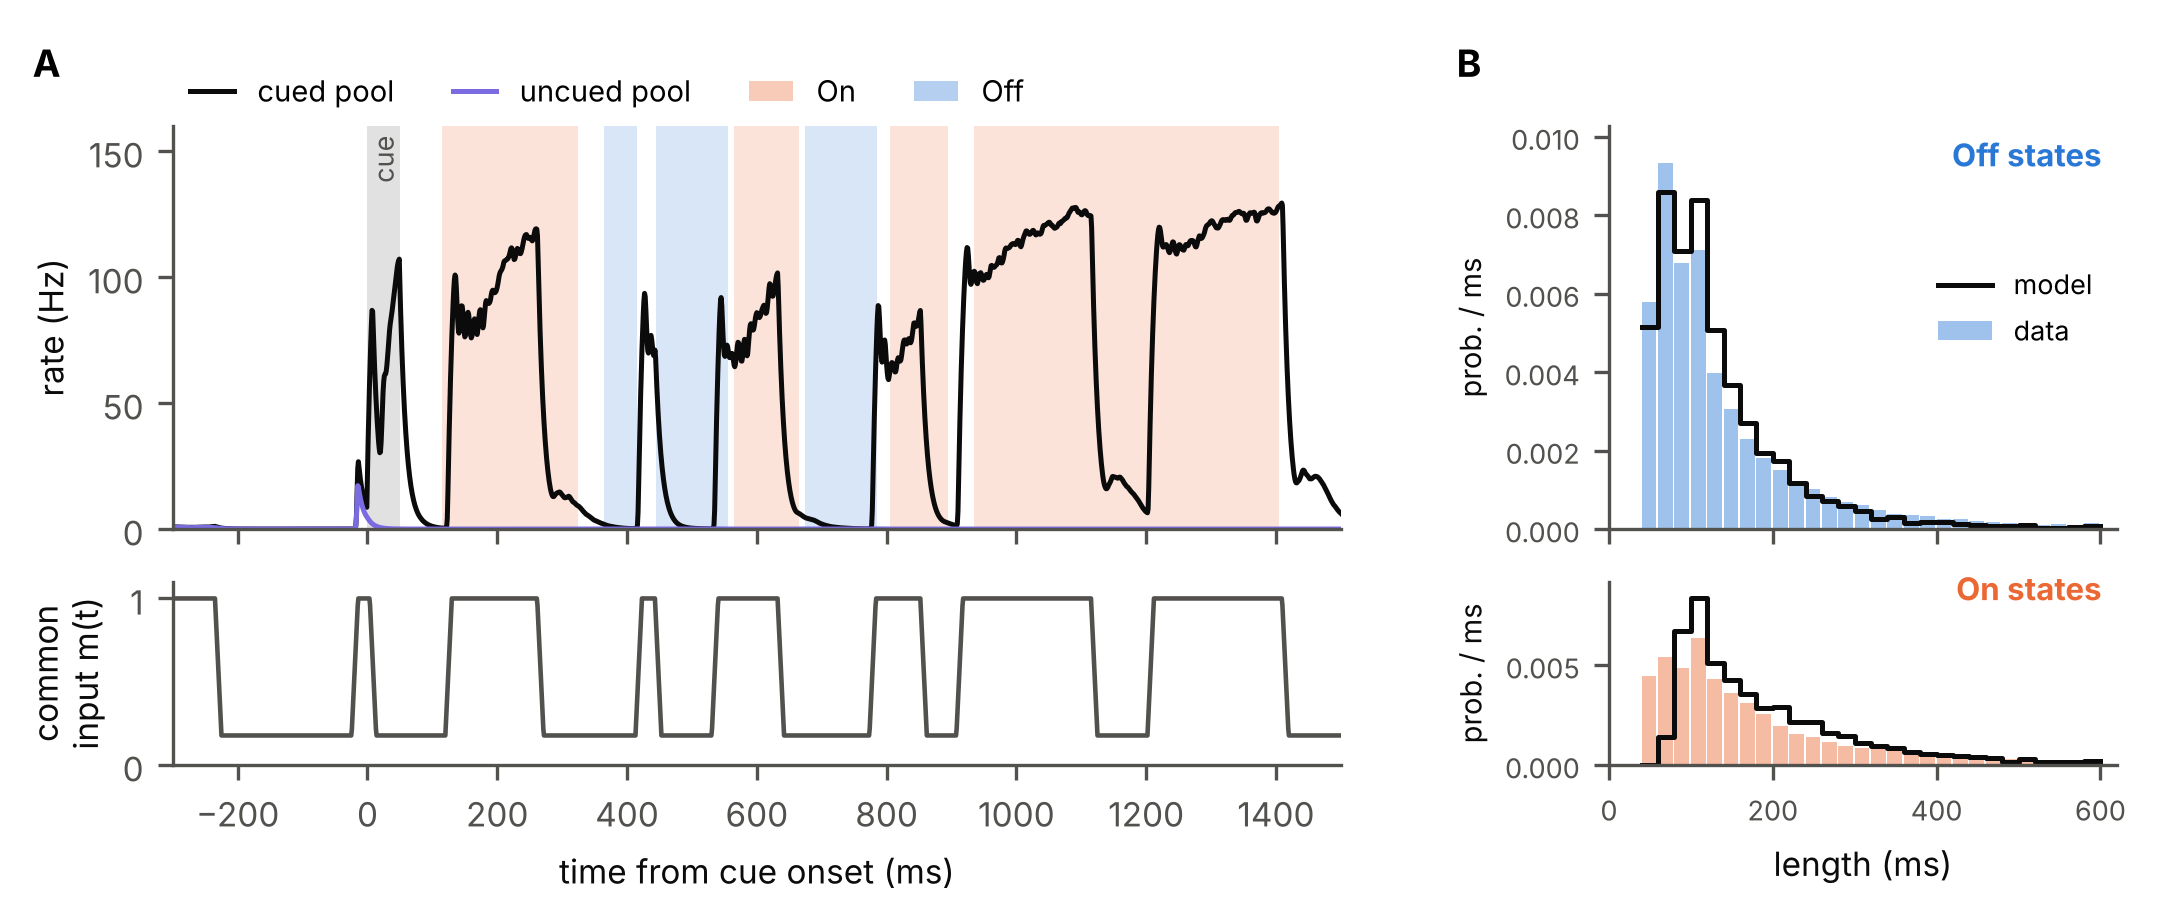
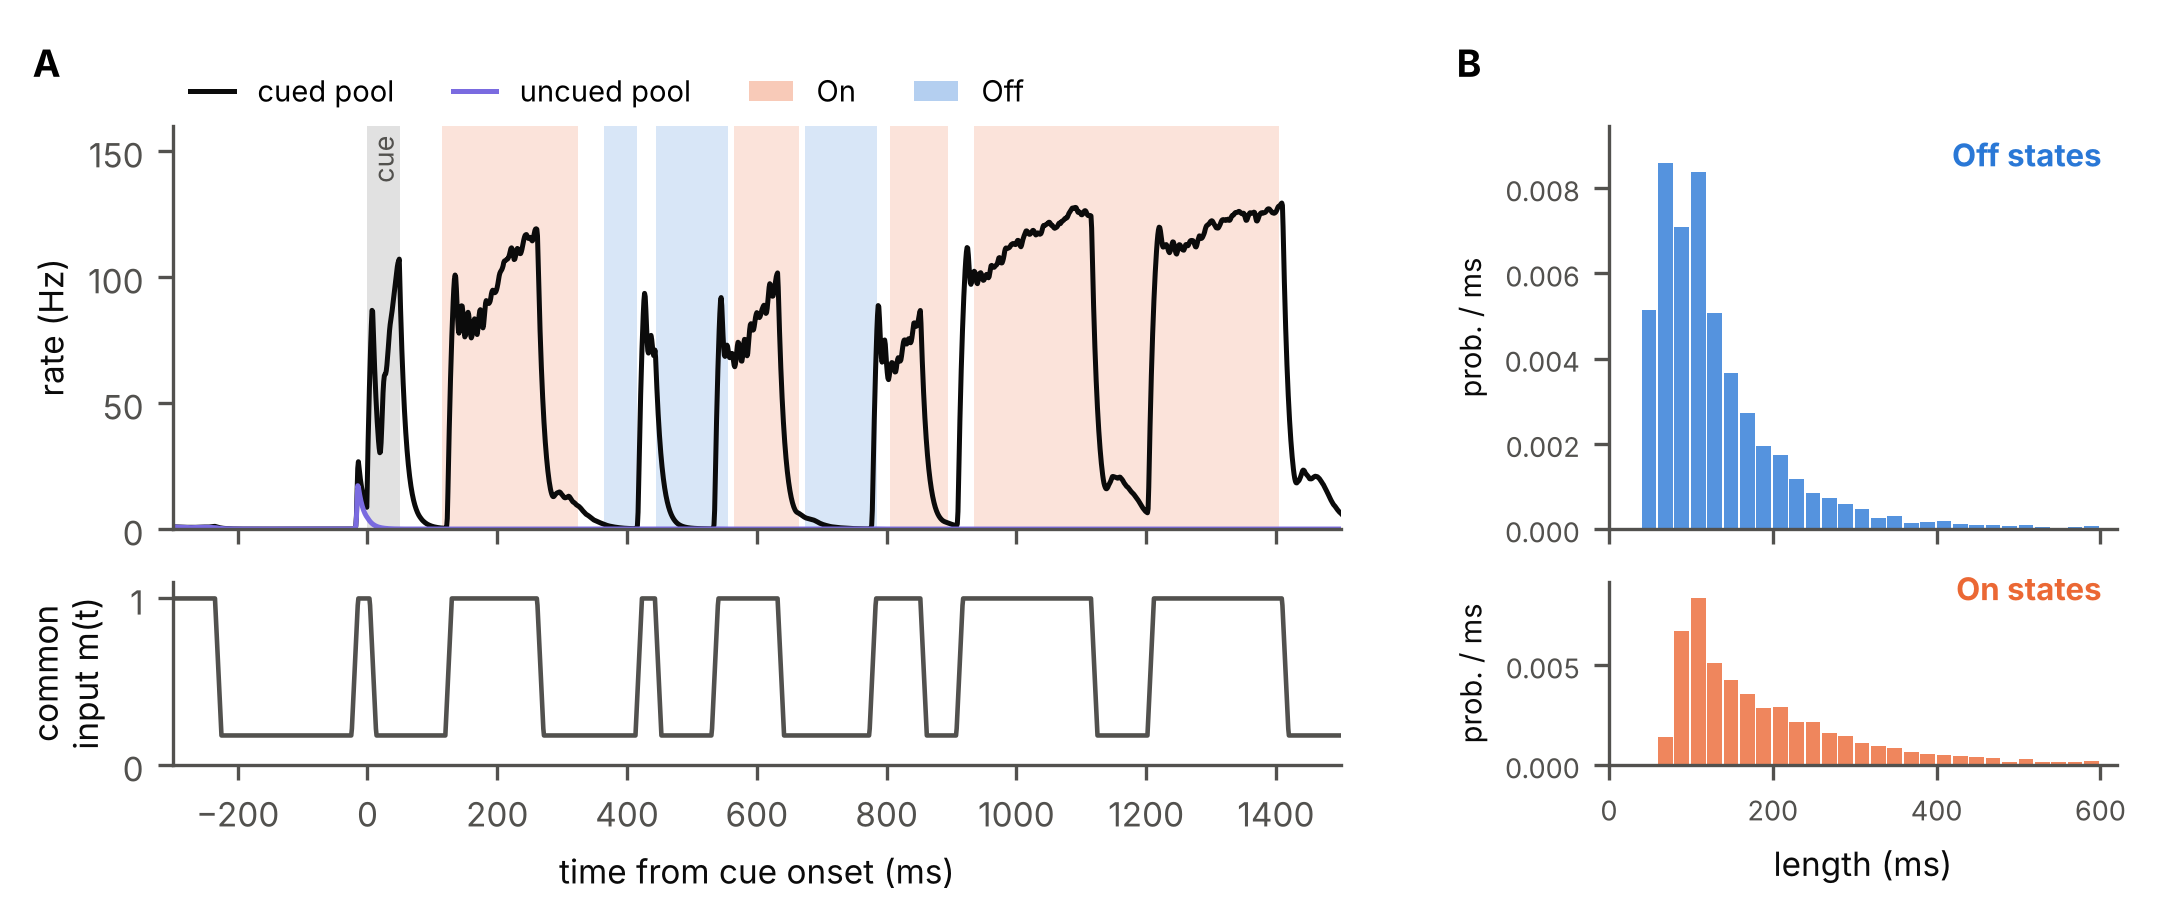
Figure 1: model-only histograms as bars; Figure 2: 2x3 On/Off statistics
Claude-Session: https://claude.ai/code/session_01DWA8oLxpZgubPZ4A6kb3Lh

diff --git a/paper_model/make_figures.py b/paper_model/make_figures.py
@@ -1,7 +1,7 @@
 """Paper figures of the best-fit model.
 
 Figure 1: a representative single trial (pool rates with the top-20 On/Off labels, and the common input below)
-          and the top-20 Off and On length histograms, model vs data.
+          and the model's top-20 Off and On length histograms.
 Figure 2: On/Off statistics of every unit set, model vs data.
 
 usage: python -m paper_model.make_figures [--n-trials 2112] [--seed 1] [--out figures/paper_model]
@@ -72,18 +72,18 @@ def figure1(out, summ, hist, path):
     b.set_xlabel('time from cue onset (ms)')
     for j, (s, c, name) in enumerate((('off', C_OFF, 'Off'), ('on', C_ON, 'On'))):
         h = fig.add_subplot(gs[j, 1]) if j == 0 else fig.add_subplot(gs[1, 1])
-        hd = hist[('top', '20')][s][:-1] / 20
-        hm = r['h_' + s][:-1] / 20
-        h.bar(R.EDGES[:-1], hd, width=18, align='edge', color=c, alpha=0.45, lw=0, label='data')
-        h.step(R.EDGES, np.r_[hm, hm[-1]], where='post', color=INK, lw=1.2, label='model')
-        h.set_xlim(0, 620); h.set_ylim(0, max(hd.max(), hm.max()) * 1.1)
+        lab = 1 if s == 'on' else -1
+        dur = np.array([(b - a) * R.STEP for row in r['state'] for a, b in R.runs(row == lab)], float)
+        edges = np.arange(0, 620, 20)
+        hm = np.histogram(dur, edges)[0] / len(dur) / 20
+        h.bar(edges[:-1], hm, width=18, align='edge', color=c, alpha=0.8, lw=0)
+        h.set_xlim(0, 620); h.set_ylim(0, hm.max() * 1.1)
         h.set_xticks([0, 200, 400, 600])
         h.text(0.97, 0.9, f'{name} states', transform=h.transAxes, ha='right', fontsize=7.5, color=c, weight='bold')
         h.tick_params(labelsize=6.5)
         h.set_ylabel('prob. / ms', fontsize=7)
         if j == 0:
             h.tick_params(labelbottom=False)
-            h.legend(loc='center right', fontsize=6.5, bbox_to_anchor=(1, 0.55))
             h.set_title('B', loc='left', x=-0.3, y=1.06)
         else:
             h.set_xlabel('length (ms)')
@@ -97,10 +97,8 @@ def figure2(out, summ, path):
     panels = (('off_per_trial', 'n_off', 'Off states per trial', C_OFF), ('off_mean_ms', 'off_mean', 'Off length, mean (ms)', C_OFF),
               ('frac_off', 'frac_off', 'fraction of delay Off', C_OFF),
               ('on_per_trial', 'n_on', 'On states per trial', C_ON), ('on_mean_ms', 'on_mean', 'On length, mean (ms)', C_ON),
-              ('frac_on', 'frac_on', 'fraction of delay On', C_ON),
-              ('mu_on', 'mu_on', 'μ_on (gain anchored to it)', INK2), (None, 'gain', 'read-out gain (z per Hz)', INK2),
-              (None, None, 'memory correct', INK2))
-    fig, axs = plt.subplots(3, 3, figsize=(6.6, 6.4), gridspec_kw=dict(hspace=0.75, wspace=0.42))
+              ('frac_on', 'frac_on', 'fraction of delay On', C_ON))
+    fig, axs = plt.subplots(2, 3, figsize=(6.6, 4.3), gridspec_kw=dict(hspace=0.75, wspace=0.42))
     for a, (dk, mk, name, col) in zip(axs.ravel(), panels):
         a.set_title(name, fontsize=8)
         if mk is None:
@@ -120,7 +118,7 @@ def figure2(out, summ, path):
         a.set_ylim(0, a.get_ylim()[1] * 1.05); a.tick_params(labelsize=6.5)
     fig.legend(handles=[Line2D([], [], ls='', marker='s', ms=4, mfc='white', mec=INK, label='data (mean ± SEM over 25 sessions)'),
                         Line2D([], [], ls='', marker='o', ms=4.5, color=INK2, label='model')],
-               loc='lower left', bbox_to_anchor=(0.1, 0.9), ncol=2, fontsize=7)
+               loc='lower left', bbox_to_anchor=(0.1, 0.93), ncol=2, fontsize=7)
     fig.savefig(path, dpi=300, bbox_inches='tight')
     plt.close(fig)
 

diff --git a/paper_model/README.md b/paper_model/README.md
@@ -10,7 +10,7 @@ when the input returns, and the pool with more residual NMDA wins. The model is 
 | `model.py` | equations, fixed parameters (`FIXED`), best fit (`FIT`), fit bounds, simulation, memory check |
 | `readout.py` | z = gain × (cued − uncued rate, 100 ms windows) + measured noise; gain anchored to the data's μ_on per unit set; On/Off labelling; statistics per unit set |
 | `fit.py` | CMA-ES fit of `FIT` (loss: six On/Off statistics for each of 7 unit sets, top-20 length histograms, memory ≥ 98% on the fit's trials) |
-| `make_figures.py` | Figure 1 (example trial + top-20 histograms) and Figure 2 (statistics of every unit set), `model_stats.json` |
+| `make_figures.py` | Figure 1 (example trial + model top-20 length histograms) and Figure 2 (On/Off statistics of every unit set, model vs data), `model_stats.json` |
 | `data/` | data read-out table and histograms (λ = 10,000), with the data agent's note |
 
 Fitted: τ_N 125 ms, w_s 1.63, dips 9.9/s, mean length 122 ms (gamma shape 5.9), depth 82%, noise σ 0.012.
